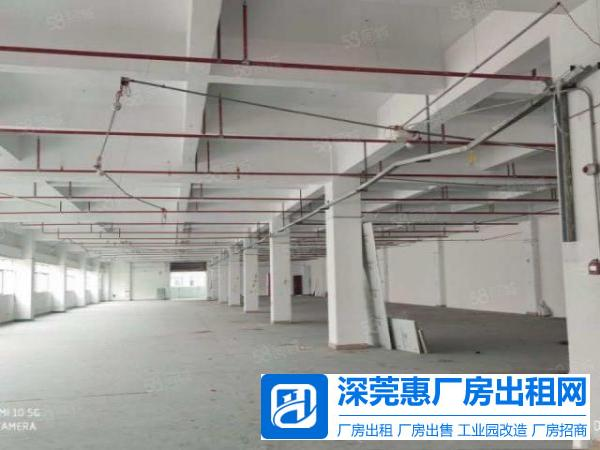
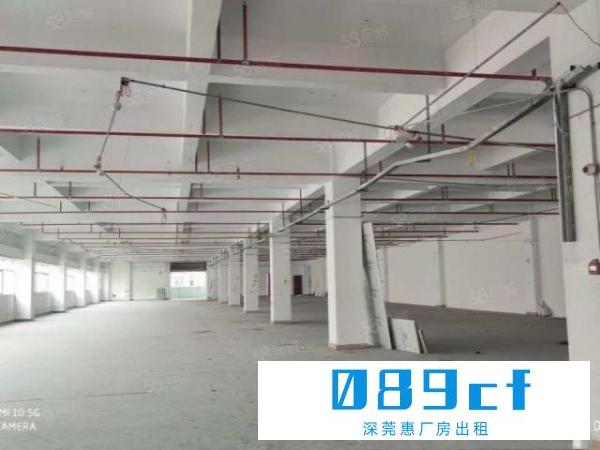
feat: remove img

Changed region(s): [[0.42, 0.7778, 0.99, 0.9956]]

diff --git a/assume/img/img_unit.py b/assume/img/img_unit.py
@@ -3,7 +3,7 @@ from PIL import Image
 path = "test.jpg"
 img = Image.open(path)
 
-logo_path = "logo.jpg"
+logo_path = "111.png"
 mark_img = Image.open(logo_path)
 
 result_path = "result.jpg"
